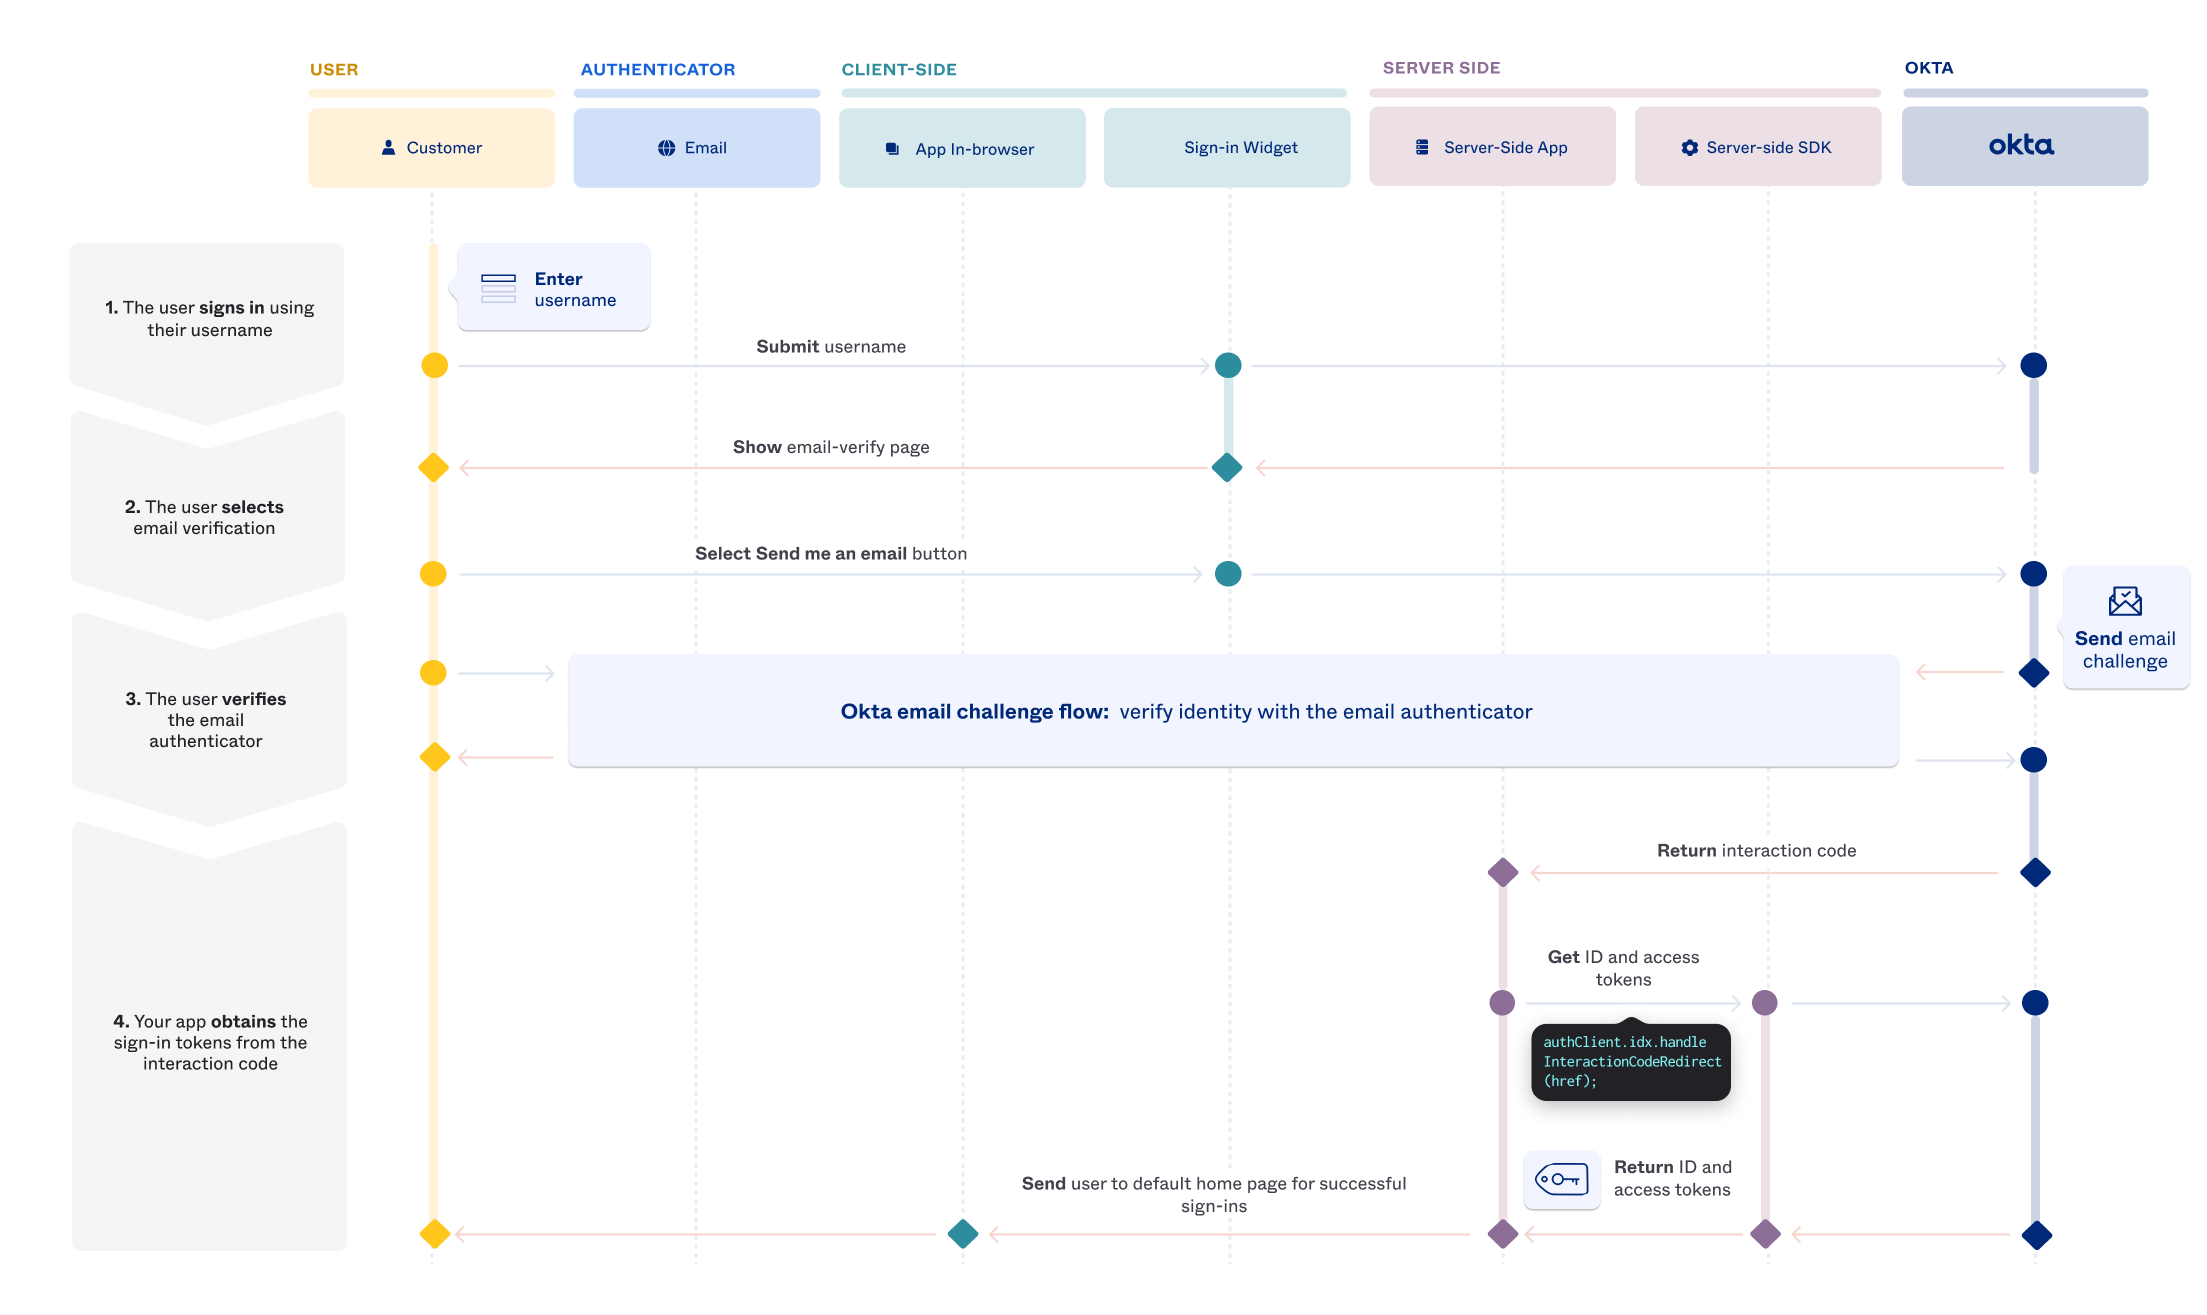
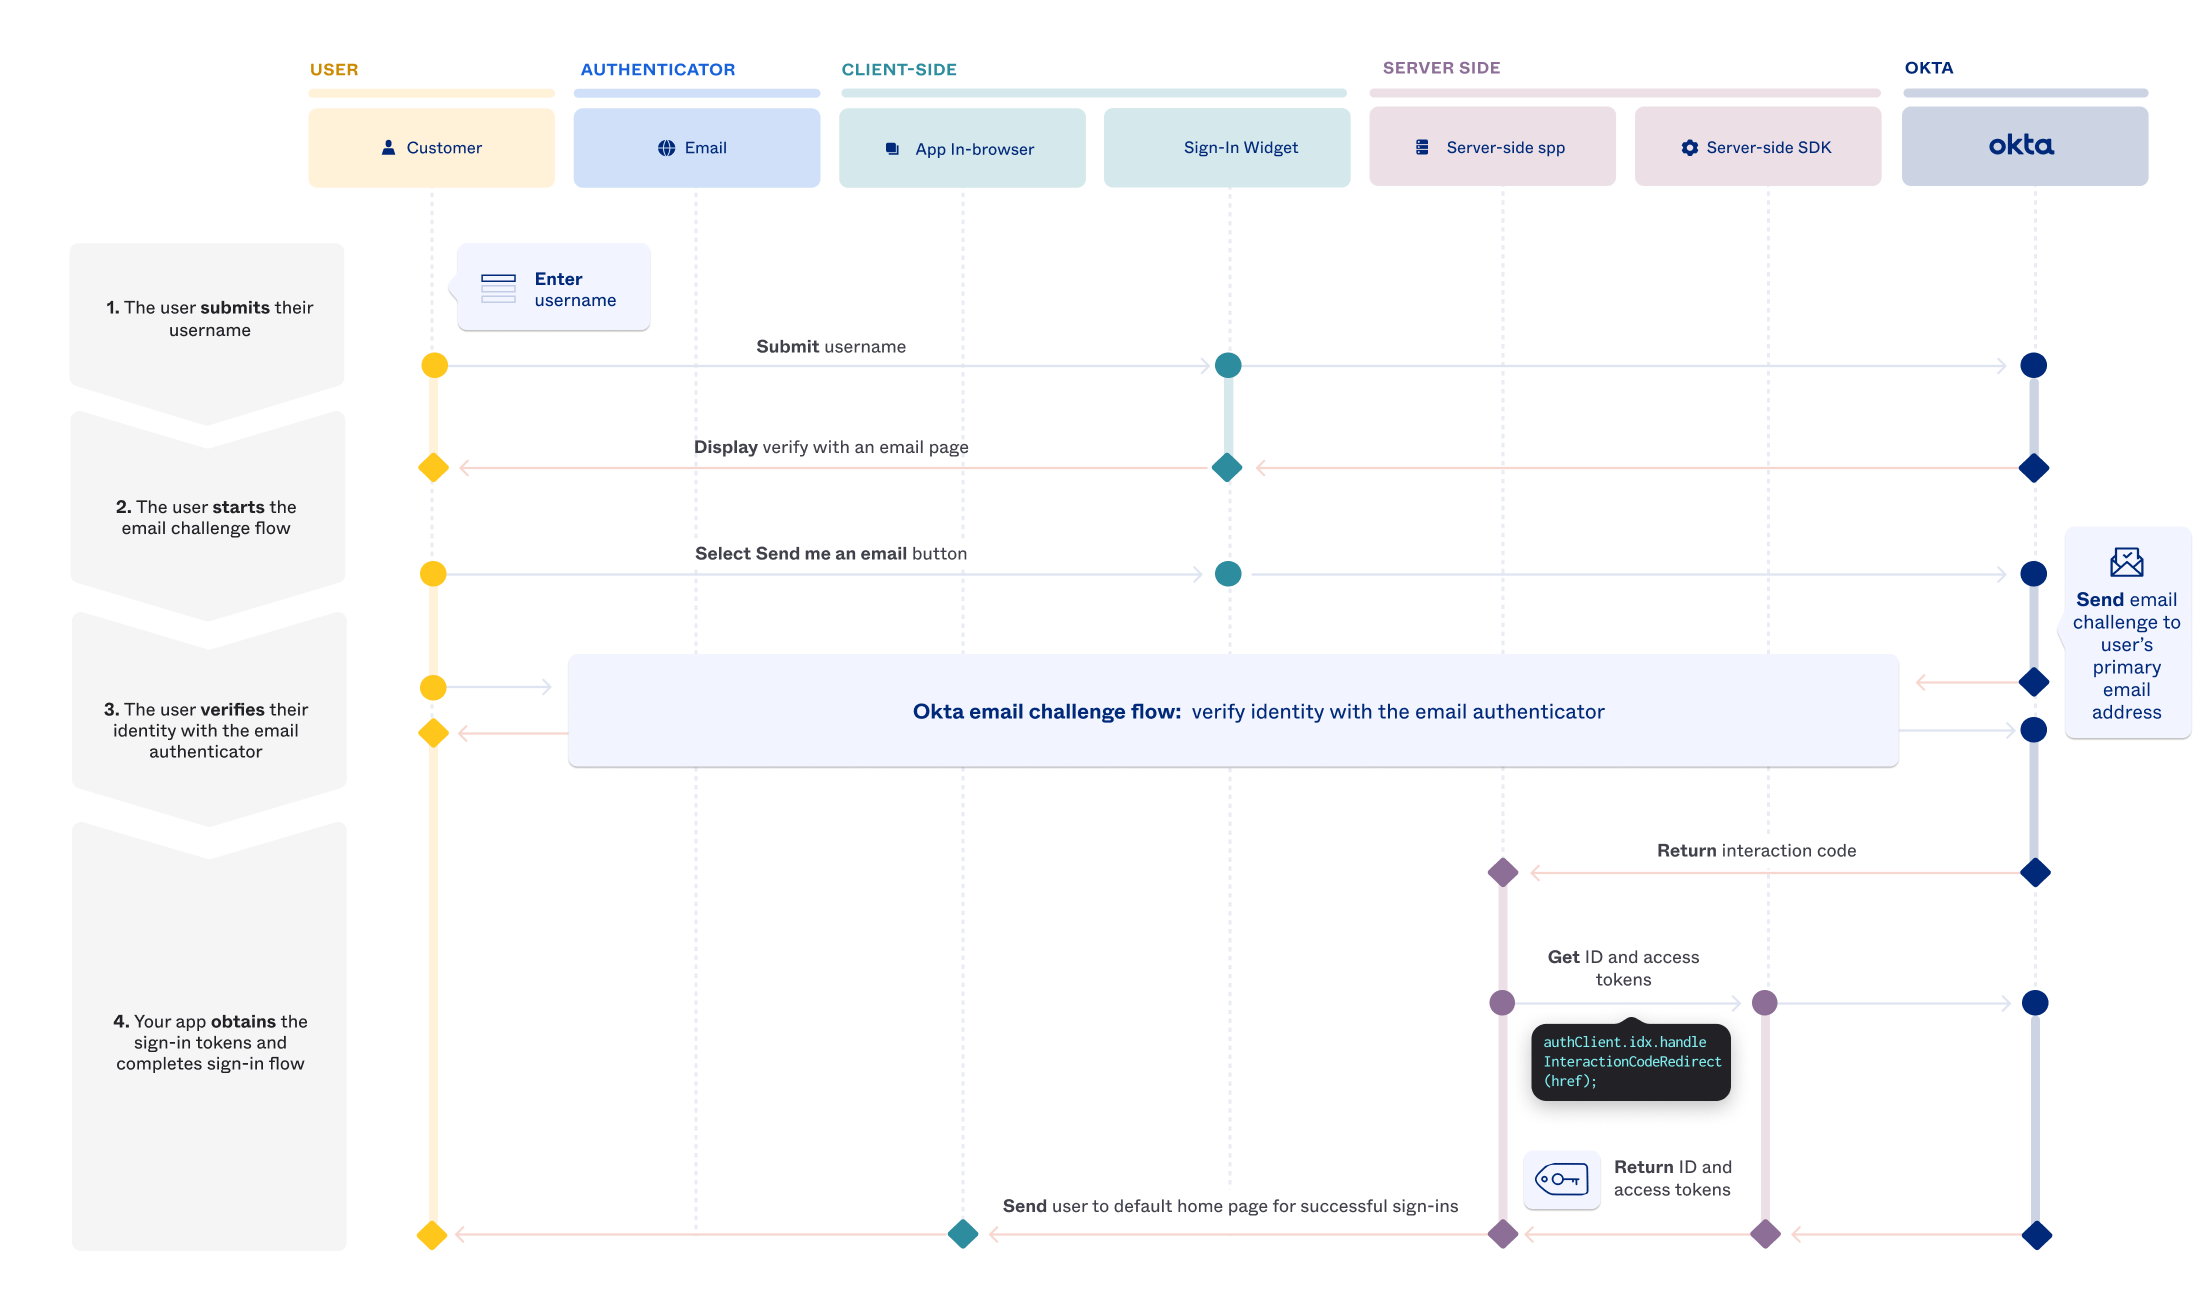
Updated based on Dans feedback

diff --git a/packages/@okta/vuepress-site/docs/guides/pwd-optional-widget-sign-in-email/main/index.md b/packages/@okta/vuepress-site/docs/guides/pwd-optional-widget-sign-in-email/main/index.md
@@ -8,7 +8,7 @@ Enable users to sign in with email only in an application using the embedded Okt
 
 **Learning outcomes**
 
-* Set up password-optional sign-in in your Okta org
+* Configure your Okta org to enable user sign-in without a password.
 * Integrate password-optional sign-ins in your app using the Sign-In Widget
 
 **What you need**
@@ -22,25 +22,25 @@ Enable users to sign in with email only in an application using the embedded Okt
 
 ---
 
-## Overview
-
 ## Update configurations
 
-Before you can start integrating password-optional sign-ins in your app, <StackSnippet snippet="setupoktaorg" inline/>. Also, to test the sign-in integration, you must use a user with an enrolled email authenticator.
+<StackSnippet snippet="setupoktaorg" inline/>
+
+> **Note:** To test the sign-in integration, you must use a user with an enrolled email authenticator.
 
 ## Integrate into your app
 
 ### Summary of steps
 
-The following summarizes the steps involved in the password-optional sign-in.
+The following diagram details the steps involved in an email-only sign-in flow.
 
 <StackSnippet snippet="integrationsummary" />
 
-### 1. The user signs in using their username
+### 1. The user submits their username
 
 The user enters their username and selects the **Next** button to start the sign-in flow.
 
-> **Note:** This guide assumes you have already set up and configured the Sign-in Widget. To learn more about how to add the Sign-In Widget to your app, see the [Embedded Okta Sign-In Widget fundamentals](docs/guides/embedded-siw/main/) guide.
+> **Note:** This guide assumes you have already set up and configured the Sign-In Widget. To learn how to add the Sign-In Widget to your app, see [Embedded Okta Sign-In Widget fundamentals](docs/guides/embedded-siw/main/).
 
 <div class="half">
 
@@ -48,14 +48,14 @@ The user enters their username and selects the **Next** button to start the sign
 
 </div>
 
-### 2. The user selects email verification
+### 2. The user starts the email challenge flow
 
-After the user selects **Next**, the widget displays a page allowing the user to verify their email. Email is the only available authenticator because
+The Sign-In Widget displays a page for the user to start verifying their identity by email. Email is the only choice because:
 
-* email is the only authenticator the user is enrolled in
-* the org's application integration policy allows for only one authentication factor type
+* The user has only enrolled the email authenticator.
+* Email is the only allowed authentication factor in your app integration's authentication policy.
 
-The user selects the **Send me an email** button to continue the email verification.
+The user selects **Send me an email** to begin the email challenge flow.
 
 <div class="half">
 
@@ -63,13 +63,18 @@ The user selects the **Send me an email** button to continue the email verificat
 
 </div>
 
-### 3. The user verifies the email authenticator
+### 3. The user verifies their identity with the email authenticator
 
-After the user selects **Send me an email**, the Identity Engine sends a verification email to their primary email address. The email allows the user to verify with a One-Time Password (OTP) or a magic link. Your app requires no changes to use OTP since it's built into the widget; however, using magic links require updates to your app. These updates include:
+Identity Engine sends a verification email to the user's primary email address. The email gives the user two ways to verify their identity:
 
-* a browser check to ensure that the user uses the same browser to initiate the sign-in and click on the magic link
-* a routing method to handle the callback request originating from the magic link. This method pulls the `otp` and `state` query parameters from the request and passes them to the Sign-In Widget
+* Copy a One-Time Password (OTP) from the email into the Sign-In Widget and submit it for verification.
+* Click a "magic link" in the email that submits the OTP to Identity Engine on your behalf.
 
->**Note:** For more information on magic links and OTP, including customizations and complete user journeys, see the [Email Magic Links Overview](docs/guides/email-magic-links-overview/main/) guide.
+Your app requires no changes to use OTP since it's built into the Sign-In Widget. However, using magic links require additions to your app which include:
+
+* A check to ensure the user starts the sign-in flow and opens the magic link in the same browser.
+* And endpoint to handle the callback request originating from the magic link. This method takes the values from the `otp` and `state` query parameters in the request and passes them to the Sign-In Widget.
+
+>**Note**: For more information on magic links and OTP, including customizations and complete user journeys, see the [Email Magic Links Overview](docs/guides/email-magic-links-overview/main/).
 
 <StackSnippet snippet="integrationsteps" />

diff --git a/packages/@okta/vuepress-site/docs/guides/pwd-optional-widget-sign-in-email/main/nodeexpress/integrationsteps.md b/packages/@okta/vuepress-site/docs/guides/pwd-optional-widget-sign-in-email/main/nodeexpress/integrationsteps.md
@@ -1,4 +1,4 @@
-The following code snippet defines a route to handle the callback request originating from the magic link. Use `OktaAuth.idx.isEmailVerifyCallback()` to verify the request is from a magic link and `OktaAuth.idx.canProceed()` to perform the same-browser check. In this example, the `otp` and `state` parameters are forwarded to the page hosting the Sign-in Widget. To learn more about initializing the Sign-In Widget with `otp` and `state`, see the [Embedded Okta Sign-In Widget fundamentals](docs/guides/embedded-siw/main/) guide.
+The following code defines a route to handle the callback request originating from the magic link. `OktaAuth.idx.isEmailVerifyCallback()` verifies the request is from a magic link, `OktaAuth.idx.canProceed()` performs the same-browser check. In this example, the `otp` and `state` parameters are forwarded to the page hosting the Sign-in Widget.
 
 ```javascript
 router.get('/login/callback', async (req, res, next) => {
@@ -21,9 +21,11 @@ router.get('/login/callback', async (req, res, next) => {
 });
 ```
 
-### 4. Your app obtains the sign-in tokens from the interaction code
+> **Note**: To learn more about initializing the Sign-In Widget with `otp` and `state`, see the [Embedded Okta Sign-In Widget fundamentals](docs/guides/embedded-siw/main/) guide.
 
-After the user successfully verifies their email, the Identity Engine sends an interaction code to your app using a URI defined in **Sign-in redirect URIs** in the org's application integration. The interaction code is sent as a query parameter, for example, `http://localhost:8080/login/callback?interaction_code=2JFmObNY8snovJP6_UK5gI_l7RQ-...`. Use `OktaAuth.idx.handleInteractionCodeRedirect()` to exchange the interaction for the ID and access tokens.
+### 4. Your app obtains the sign-in tokens and completes sign-in flow
+
+After the user successfully verifies their identity, Identity Engine sends an interaction code to your app using a URI defined in **Sign-in redirect URIs** in the org's application integration. The interaction code is sent as a query parameter, for example, `http://localhost:8080/login/callback?interaction_code=2JFmObNY8snovJP6_UK5gI_l7RQ-...`. Use `OktaAuth.idx.handleInteractionCodeRedirect()` to exchange the interaction for the ID and access tokens.
 
 ```javascript
 router.get('/login/callback', async (req, res, next) => {

diff --git a/packages/@okta/vuepress-site/docs/guides/pwd-optional-widget-sign-in-email/main/nodeexpress/setupoktaorg.md b/packages/@okta/vuepress-site/docs/guides/pwd-optional-widget-sign-in-email/main/nodeexpress/setupoktaorg.md
@@ -1,1 +1,3 @@
-[set up your Okta org for a password-optional use case](/docs/guides/oie-embedded-common-org-setup/nodejs/main/#set-up-your-okta-org-for-a-password-optional-use-case)
+[Set up your Okta org for a password-optional use case](/docs/guides/oie-embedded-common-org-setup/nodejs/main/#set-up-your-okta-org-for-a-password-optional-use-case)
+
+<br><br>
